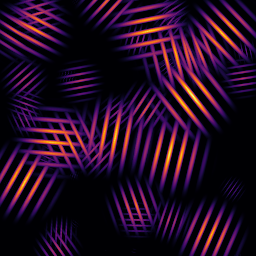
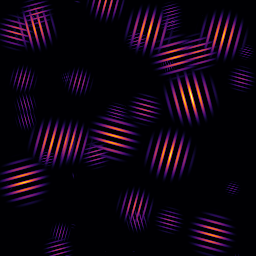
Fix missing argument and switch kernel radius in pixels

diff --git a/HighMap/src/authoring/stamping.cpp b/HighMap/src/authoring/stamping.cpp
@@ -17,11 +17,12 @@ Array stamping(Vec2<int>           shape,
                std::vector<float>  yr,
                std::vector<float>  zr,
                Array               kernel,
-               float               kernel_radius,
+               int                 kernel_ir,
                bool                kernel_scale_radius,
                bool                kernel_scale_amplitude,
                StampingBlendMethod blend_method,
                uint                seed,
+               float               k_smoothing,
                bool                kernel_flip,
                bool                kernel_rotate,
                Vec4<float>         bbox_array)
@@ -39,8 +40,6 @@ Array stamping(Vec2<int>           shape,
   // --- define blending function
 
   std::function<void(float &, float &)> blend_function;
-
-  float k_smoothing = 0.1f;
 
   switch (blend_method)
   {
@@ -80,8 +79,7 @@ Array stamping(Vec2<int>           shape,
   // --- do the stamping
 
   // scale kernel
-  Vec2<int> scaled_kernel_shape = {std::max(2, (int)(kernel_radius * shape.x)),
-                                   std::max(2, (int)(kernel_radius * shape.y))};
+  Vec2<int> scaled_kernel_shape = {2 * kernel_ir + 1, 2 * kernel_ir + 1};
 
   Array kernel_scaled = kernel.resample_to_shape(scaled_kernel_shape);
 
@@ -94,10 +92,9 @@ Array stamping(Vec2<int>           shape,
     // resize kernel (if requested)
     if (kernel_scale_radius)
     {
-      float coeff = zr[k] * kernel_radius;
-
-      Vec2<int> new_scaled_kernel_shape = {std::max(2, (int)(coeff * shape.x)),
-                                           std::max(2, (int)(coeff * shape.y))};
+      Vec2<int> new_scaled_kernel_shape = {
+          std::max(3, (int)(zr[k] * (2 * kernel_ir + 1))),
+          std::max(3, (int)(zr[k] * (2 * kernel_ir + 1)))};
 
       if (new_scaled_kernel_shape != scaled_kernel_shape)
       {

diff --git a/HighMap/include/highmap/authoring.hpp b/HighMap/include/highmap/authoring.hpp
@@ -141,13 +141,14 @@ Array ridgelines_bezier(Vec2<int>          shape,
  * @param yr Stamping locations y coordinates.
  * @param zr Stamping locations z coordinates.
  * @param kernel Kernel to be stamped
- * @param kernel_radius Kernel radius (with respect to a unit-square domain).
+ * @param kernel_ir Kernel radius (in pixels).
  * @param kernel_scale_radius Scale, or not, the kernel radius using the 'z'
  * coordinates of the points.
  * @param kernel_scale_amplitude Scale, or not, the kernel amplitude using the
  * 'z' coordinates of the points.
  * @param blend_method Blending method.
  * @param seed Random seed number.
+ * @param k_smoothing Smoothing (if any, e.g. for smooth min and max).
  * @param kernel_flip Randomly flip, or not, the kernel before stamping
  * (flipping including tranposing).
  * @param kernel_rotate Randomly rotate, or not, the kernel before stamping (can
@@ -168,11 +169,12 @@ Array stamping(Vec2<int>           shape,
                std::vector<float>  yr,
                std::vector<float>  zr,
                Array               kernel,
-               float               kernel_radius,
+               int                 kernel_ir,
                bool                kernel_scale_radius,
                bool                kernel_scale_amplitude,
                StampingBlendMethod blend_method,
                uint                seed,
+               float               k_smoothing = 0.1f,
                bool                kernel_flip = true,
                bool                kernel_rotate = false,
                Vec4<float>         bbox_array = {0.f, 1.f, 0.f, 1.f});

diff --git a/examples/ex_stamping/ex_stamping.cpp b/examples/ex_stamping/ex_stamping.cpp
@@ -20,7 +20,7 @@ int main(void)
                                  y,
                                  v,
                                  kernel,
-                                 0.4f, // kernel radius
+                                 32,   // kernel radius in pixels
                                  true, // scale ampl
                                  true, // scale radius
                                  hmap::StampingBlendMethod::MAXIMUM,
